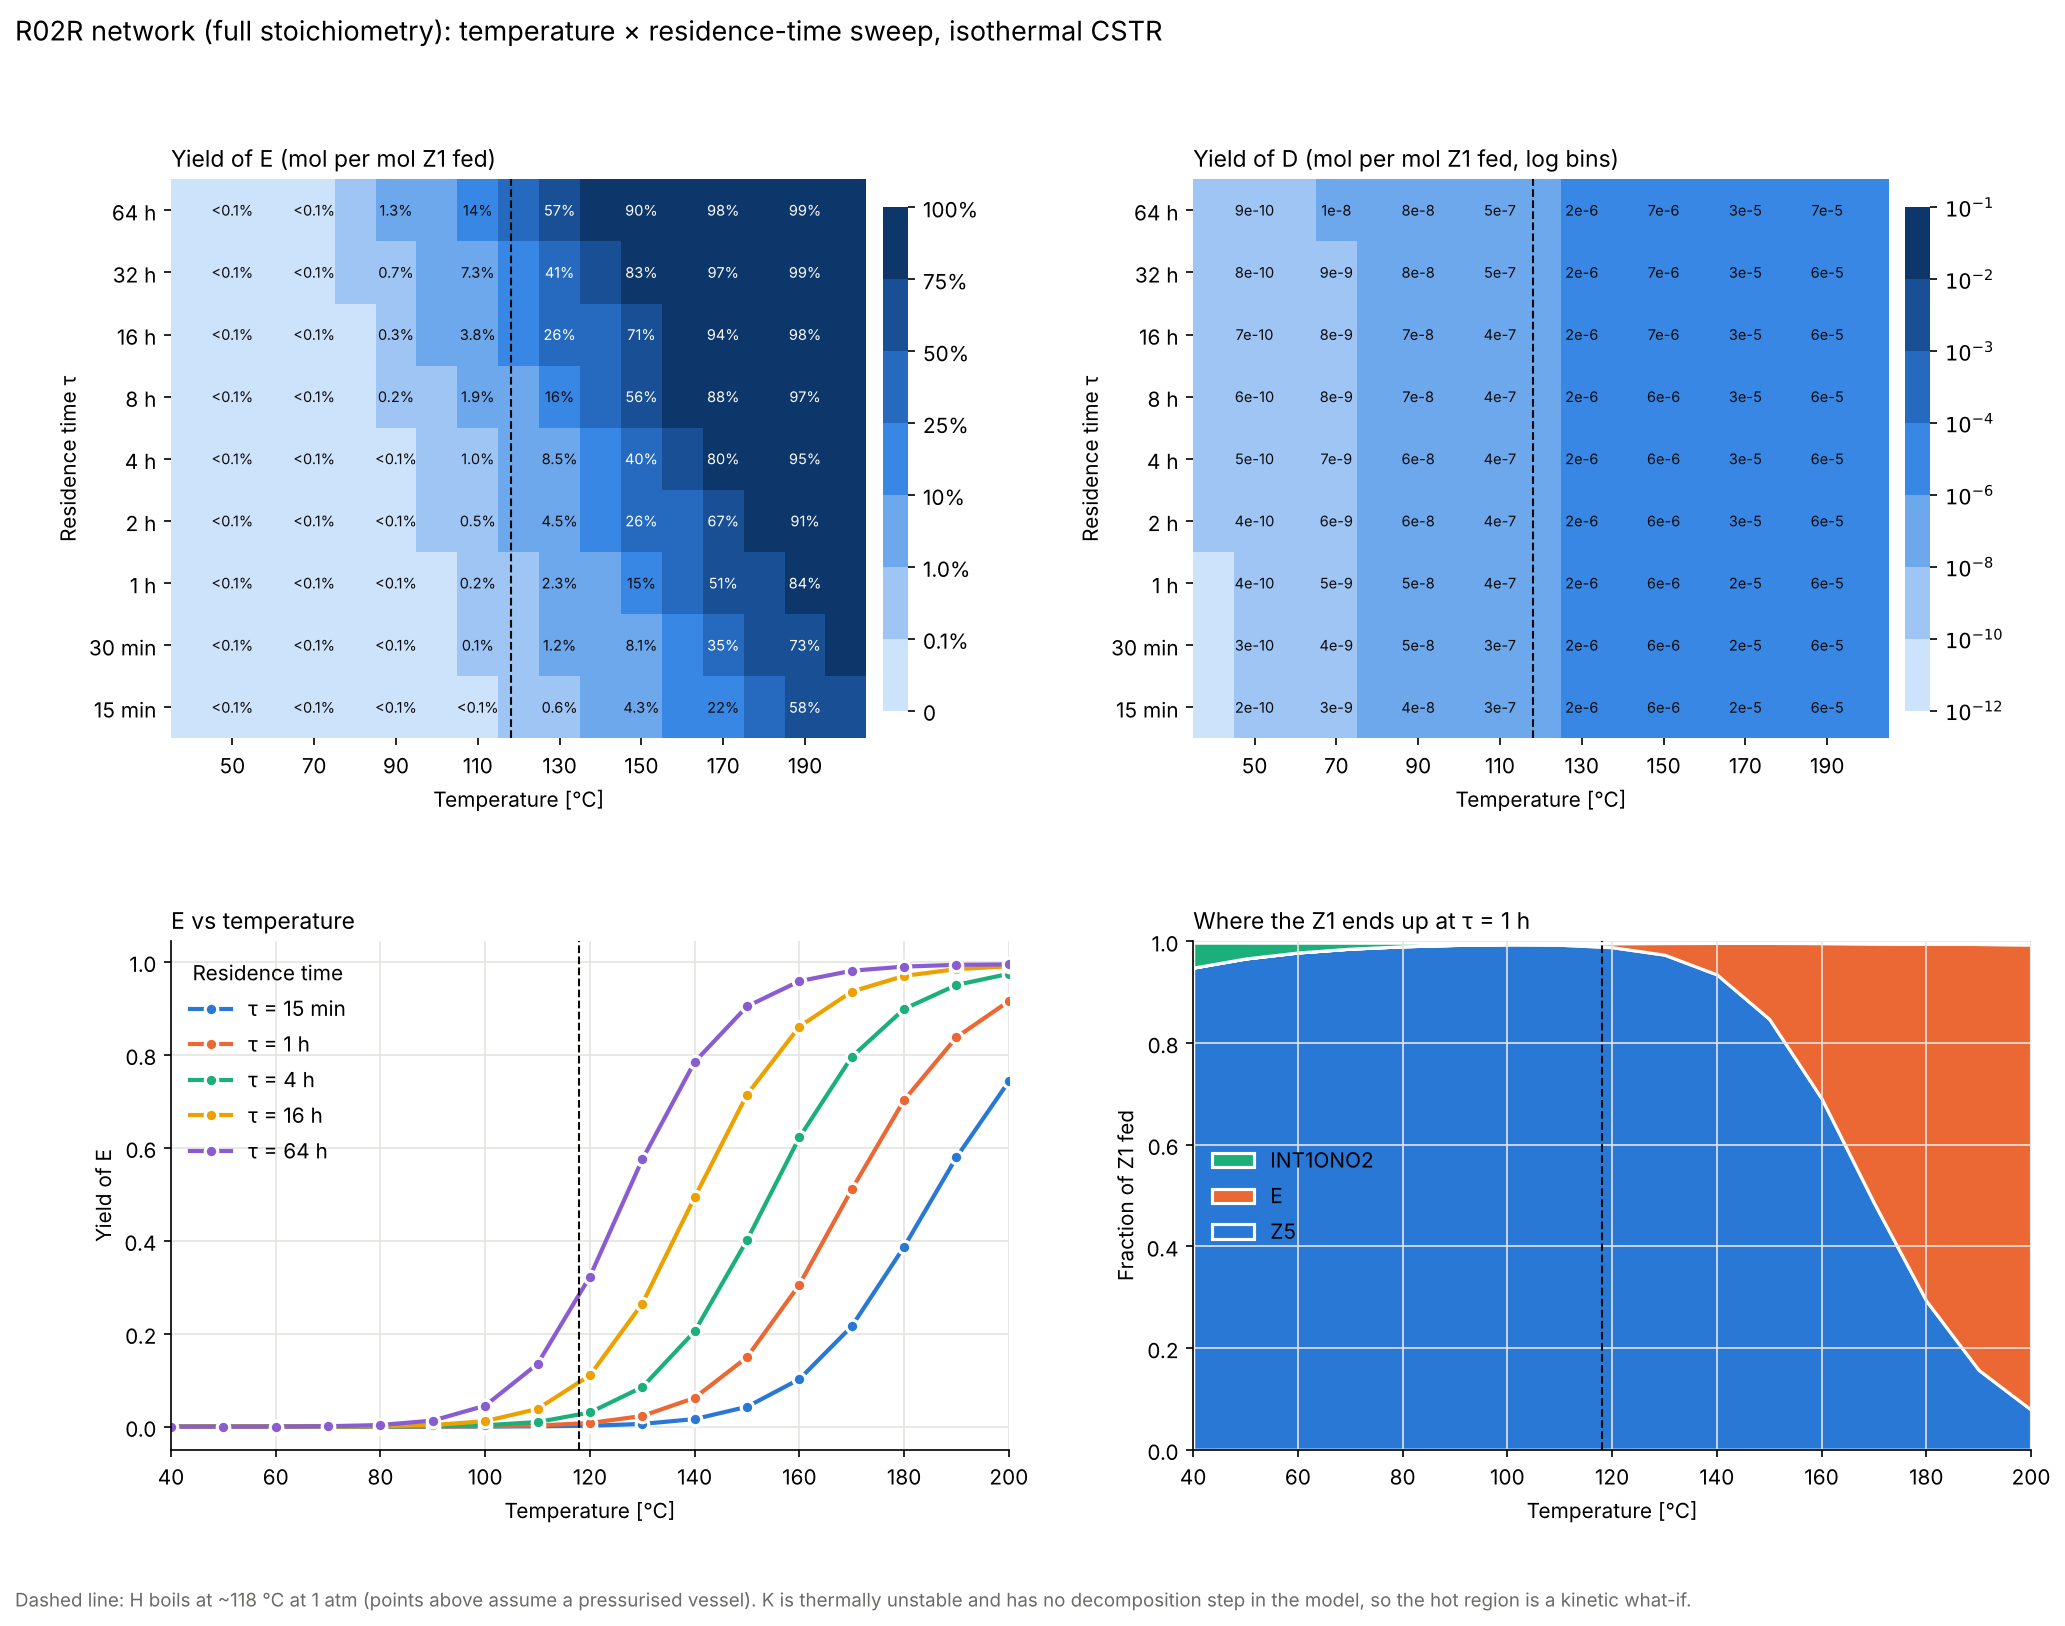
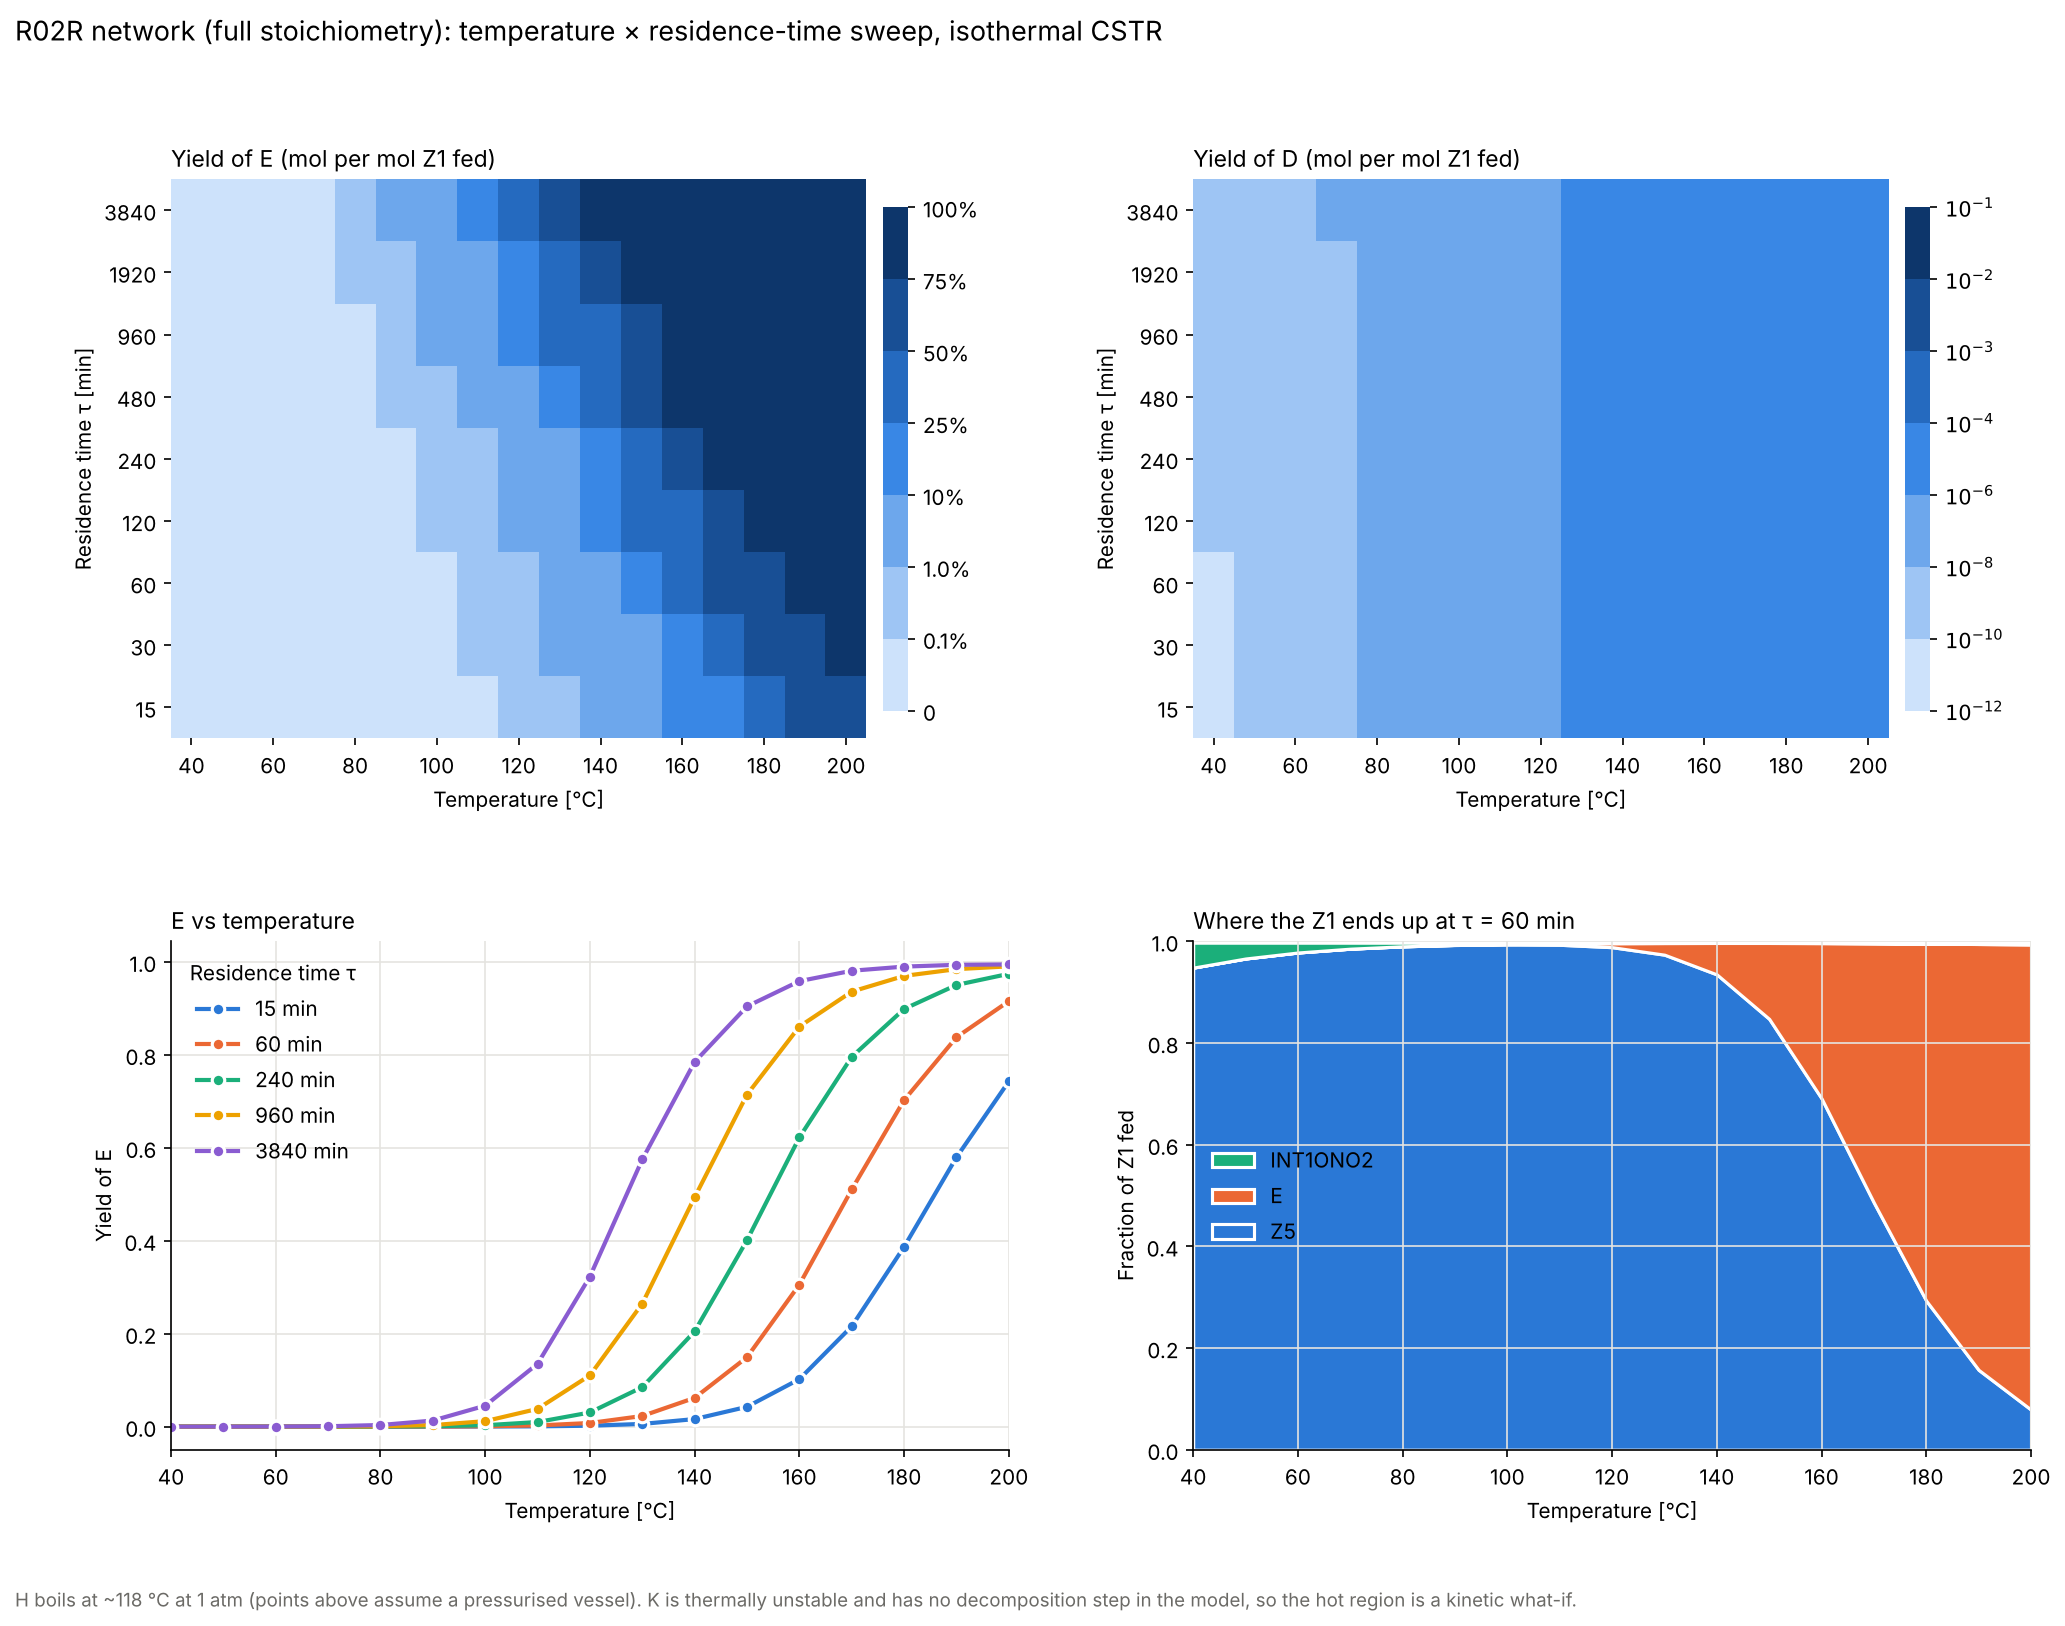
Simplify sweep heatmaps: no cell labels, residence time in minutes, no boiling line
Claude-Session: https://claude.ai/code/session_01K4fAYaknGs2j13owVbAtJi

diff --git a/Project work/R02R_network/R02R_network_sweep.py b/Project work/R02R_network/R02R_network_sweep.py
@@ -24,6 +24,7 @@ Run it with::
 
     python R02R_network_sweep.py            # sweep, save figure + CSV, show
     python R02R_network_sweep.py --no-show  # sweep and save only
+    python R02R_network_sweep.py --from-csv # redraw from the saved CSV
 
 Writes ``results/R02R_network_sweep.png`` and
 ``results/R02R_network_sweep.csv``.
@@ -95,6 +96,20 @@ def save_csv(grids, path):
                         + f",{grids['gap'][i, j]:.3g}\n")
 
 
+def load_csv(path) -> dict[str, np.ndarray]:
+    """Grids back from ``save_csv`` output, on TAUS_H x TEMPS_C."""
+    data = np.genfromtxt(path, delimiter=",", names=True)
+    grids = {p: np.zeros((len(TAUS_H), len(TEMPS_C)))
+             for p in (*PRODUCTS, "gap")}
+    for row in data:
+        i = int(np.argmin(np.abs(TAUS_H - row["tau_h"])))
+        j = int(np.argmin(np.abs(TEMPS_C - row["temp_C"])))
+        for p in PRODUCTS:
+            grids[p][i, j] = row[f"yield_{p}"]
+        grids["gap"][i, j] = row["steady_state_gap"]
+    return grids
+
+
 def plot(grids):
     import matplotlib.pyplot as plt
     from matplotlib.colors import ListedColormap, BoundaryNorm
@@ -108,7 +123,7 @@ def plot(grids):
     cmap = ListedColormap(BLUE_RAMP)
     norm = BoundaryNorm(bounds, cmap.N)
     ax = fig.add_subplot(gs[0, 0])
-    _heatmap(ax, grids["E"], cmap, norm, fmt=_pct,
+    _heatmap(ax, grids["E"], cmap, norm,
              title="Yield of E (mol per mol Z1 fed)")
     cbar = fig.colorbar(ax.images[0], ax=ax, ticks=bounds, shrink=0.9,
                         pad=0.02)
@@ -119,8 +134,8 @@ def plot(grids):
     d_bounds = [1e-12, 1e-10, 1e-8, 1e-6, 1e-4, 1e-3, 1e-2, 1e-1]
     d_norm = BoundaryNorm(d_bounds, cmap.N)
     ax_d = fig.add_subplot(gs[0, 1])
-    _heatmap(ax_d, np.maximum(grids["D"], 1e-12), cmap, d_norm, fmt=_sci,
-             title="Yield of D (mol per mol Z1 fed, log bins)")
+    _heatmap(ax_d, np.maximum(grids["D"], 1e-12), cmap, d_norm,
+             title="Yield of D (mol per mol Z1 fed)")
     cbar = fig.colorbar(ax_d.images[0], ax=ax_d, ticks=d_bounds, shrink=0.9,
                         pad=0.02)
     cbar.ax.set_yticklabels([f"$10^{{{int(np.log10(b))}}}$"
@@ -133,10 +148,10 @@ def plot(grids):
     for color, tau_h in zip(SERIES, picks):
         i = list(TAUS_H).index(tau_h)
         ax_e.plot(TEMPS_C, grids["E"][i], "o-", color=color, lw=2, ms=6,
-                  mec=SURFACE, mew=1.5, label=f"τ = {_tau(tau_h)}")
+                  mec=SURFACE, mew=1.5, label=f"{_tau(tau_h)} min")
     ax_e.set_ylabel("Yield of E")
     ax_e.set_title("E vs temperature", loc="left", fontsize=11)
-    ax_e.legend(frameon=False, loc="upper left", title="Residence time")
+    ax_e.legend(frameon=False, loc="upper left", title="Residence time τ")
     _line_axes(ax_e)
 
     # --- Where the Z1 goes at tau = 1 h (stacked fractions).
@@ -148,7 +163,7 @@ def plot(grids):
                    edgecolor=SURFACE, linewidth=1.5)
     ax_s.set_ylim(0, 1.0)
     ax_s.set_ylabel("Fraction of Z1 fed")
-    ax_s.set_title("Where the Z1 ends up at τ = 1 h", loc="left",
+    ax_s.set_title("Where the Z1 ends up at τ = 60 min", loc="left",
                    fontsize=11)
     ax_s.legend(frameon=False, loc="center left", reverse=True)
     _line_axes(ax_s)
@@ -157,40 +172,30 @@ def plot(grids):
         "R02R network (full stoichiometry): temperature × residence-time "
         "sweep, isothermal CSTR", x=0.06, ha="left", fontsize=13)
     fig.text(0.06, 0.015,
-             f"Dashed line: H boils at ~{BOILING_POINT_H_C:g} °C at 1 atm "
-             "(points above assume a pressurised vessel). K is thermally "
+             f"H boils at ~{BOILING_POINT_H_C:g} °C at 1 atm (points above "
+             "assume a pressurised vessel). K is thermally "
              "unstable and has no decomposition step in the model, so the "
              "hot region is a kinetic what-if.",
              fontsize=9, color=TEXT_MUTED)
     return fig
 
 
-def _heatmap(ax, data, cmap, norm, fmt, title):
+def _heatmap(ax, data, cmap, norm, title):
+    """Plain yield map: colour only, values read from the colour bar."""
     ax.imshow(data, origin="lower", aspect="auto", cmap=cmap, norm=norm,
               extent=(TEMPS_C[0] - 5, TEMPS_C[-1] + 5, -0.5,
                       len(TAUS_H) - 0.5))
-    for i in range(len(TAUS_H)):
-        for j, temp in enumerate(TEMPS_C):
-            if j % 2 == 0:
-                continue  # label 50, 70, ... so text clears the edges and
-                # the boiling-point line inside the 120 C cell
-            value = data[i, j]
-            dark = norm(value) >= 4
-            ax.text(temp, i, fmt(value), ha="center", va="center",
-                    fontsize=7, color=SURFACE if dark else TEXT_PRIMARY)
-    ax.axvline(BOILING_POINT_H_C, color=TEXT_PRIMARY, lw=1, ls="--")
     ax.set_yticks(range(len(TAUS_H)))
     ax.set_yticklabels([_tau(t) for t in TAUS_H])
-    ax.set_xticks(TEMPS_C[1::2])
+    ax.set_xticks(TEMPS_C[::2])
     ax.set_xlabel("Temperature [°C]")
-    ax.set_ylabel("Residence time τ")
+    ax.set_ylabel("Residence time τ [min]")
     ax.set_title(title, loc="left", fontsize=11)
     for spine in ax.spines.values():
         spine.set_visible(False)
 
 
 def _line_axes(ax):
-    ax.axvline(BOILING_POINT_H_C, color=TEXT_PRIMARY, lw=1, ls="--")
     ax.set_xlabel("Temperature [°C]")
     ax.set_xlim(TEMPS_C[0], TEMPS_C[-1])
     ax.grid(True, color=GRID, lw=0.8)
@@ -205,29 +210,33 @@ def _pct(v):
     return "<0.1%" if v > 0 else "0"
 
 
-def _sci(v):
-    e = int(np.floor(np.log10(v)))
-    return f"{v / 10 ** e:.0f}e{e}"
-
-
 def _tau(h):
-    return f"{h * 60:.0f} min" if h < 1 else f"{h:g} h"
+    """Residence time in minutes, as a plain number."""
+    return f"{h * 60:g}"
 
 
 if __name__ == "__main__":
     parser = argparse.ArgumentParser(description=__doc__.splitlines()[0])
     parser.add_argument("--no-show", action="store_true")
+    parser.add_argument("--from-csv", action="store_true",
+                        help="redraw from results/R02R_network_sweep.csv "
+                             "instead of re-running the sweep")
     args = parser.parse_args()
     if args.no_show:
         import matplotlib
         matplotlib.use("Agg")
 
-    print(f"Sweeping {len(TEMPS_C)} temperatures x {len(TAUS_H)} "
-          "residence times:")
-    grids = run_sweep()
-    print(f"Largest steady-state gap: {grids['gap'].max():.2%} of inlet flow")
-    net.RESULTS_DIR.mkdir(parents=True, exist_ok=True)
-    save_csv(grids, net.RESULTS_DIR / "R02R_network_sweep.csv")
+    csv_path = net.RESULTS_DIR / "R02R_network_sweep.csv"
+    if args.from_csv:
+        grids = load_csv(csv_path)
+    else:
+        print(f"Sweeping {len(TEMPS_C)} temperatures x {len(TAUS_H)} "
+              "residence times:")
+        grids = run_sweep()
+        print(f"Largest steady-state gap: {grids['gap'].max():.2%} of "
+              "inlet flow")
+        net.RESULTS_DIR.mkdir(parents=True, exist_ok=True)
+        save_csv(grids, csv_path)
     fig = plot(grids)
     fig.savefig(net.RESULTS_DIR / "R02R_network_sweep.png", dpi=150,
                 bbox_inches="tight")
